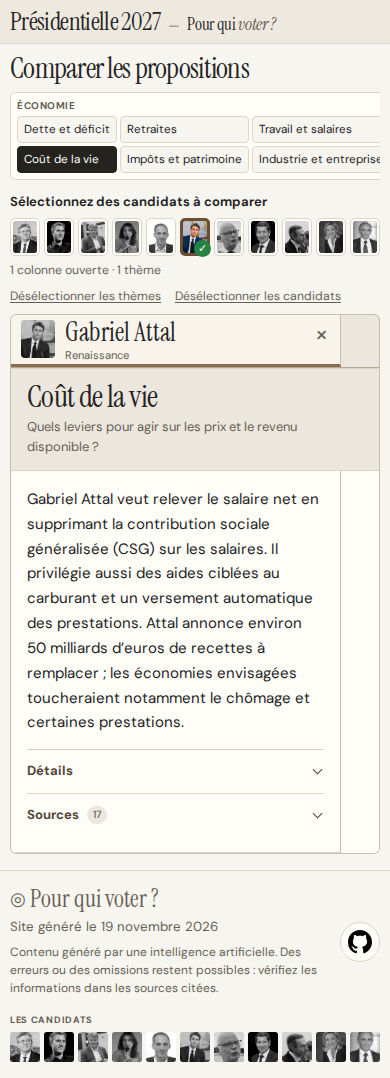
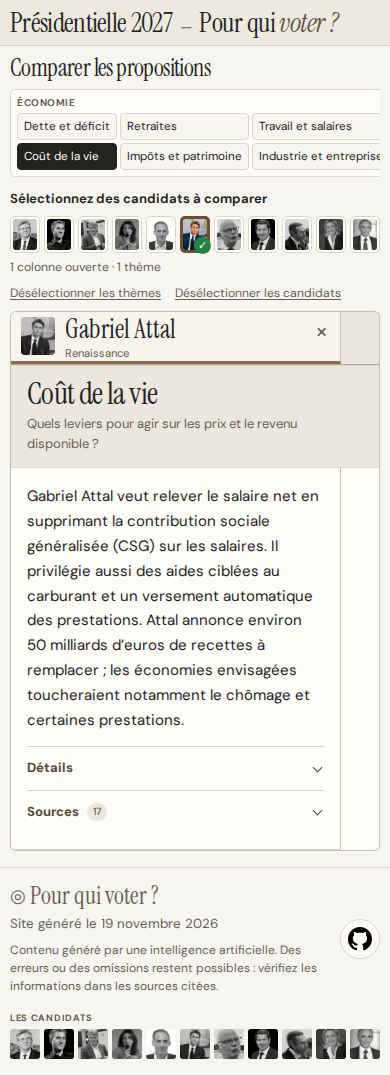
Équilibrer le titre principal et réduire le titre du comparateur

diff --git a/web/assets/style.css b/web/assets/style.css
@@ -23,9 +23,9 @@ p,h1,h2,h3,h4,h5{margin:0}
 .back-link{font-size:.85rem;font-weight:650}
 .hero{background:var(--hero);border-bottom:1px solid var(--line)}
 .hero-layout{display:flex;align-items:center;padding-block:8px}
-.hero .election-title{display:flex;align-items:baseline;gap:0 14px;font-size:clamp(26px,3.3vw,48px);line-height:1.08;letter-spacing:-.025em}
+.hero .election-title{display:flex;align-items:baseline;gap:0 14px;font-size:clamp(26px,3vw,42px);line-height:1.08;letter-spacing:-.025em}
 .election-year,.site-title{white-space:nowrap}
-.site-title{font-size:.68em;letter-spacing:-.02em}
+.site-title{font-size:1em;letter-spacing:-.02em}
 .title-divider{font-family:var(--sans);font-size:.52em;color:var(--muted)}
 .edition-top,.evidence{font-size:.73rem;font-weight:700;letter-spacing:.075em;text-transform:uppercase}
 h1,h2,.theme-heading h3{font-family:var(--serif);font-weight:400;line-height:.98}
@@ -42,7 +42,7 @@ h1 em{font-weight:400;color:#63574a}
 .wide{width:calc(100% - 32px);margin-inline:auto}
 .compare-section{--open-track:clamp(290px,30vw,440px);padding-block:14px 18px;flex:1;display:flex;flex-direction:column}
 .section-head{display:flex;align-items:baseline;flex-wrap:wrap;gap:3px 16px;margin-bottom:9px}
-.section-head h2{font-size:clamp(29px,3vw,43px);letter-spacing:-.025em}
+.section-head h2{font-size:clamp(24px,2.5vw,36px);letter-spacing:-.025em}
 .section-head p{font-size:.79rem;color:var(--muted)}
 .theme-picker{display:grid;grid-template-columns:minmax(0,1.25fr) minmax(0,1.13fr) minmax(0,1.13fr) minmax(0,1.46fr) minmax(0,.74fr) minmax(0,.71fr);gap:6px}
 .theme-stack{min-width:0;padding:5px 6px 6px;background:var(--card);border:1px solid var(--line);border-radius:5px}
@@ -160,7 +160,7 @@ footer{border-top:1px solid var(--line);color:var(--muted);font-size:.83rem}
   .nav,.foot{min-height:50px;gap:10px}
   .brand{font-size:24px;gap:4px}
   .brand-mark{font-size:18px}
-  .hero .election-title{font-size:clamp(22px,6.5vw,30px);gap:0 8px}
+  .hero .election-title{font-size:clamp(22px,7vw,30px);gap:0 8px}
   .edition-top{font-size:.58rem}
   .section-head p{display:none}
   .theme-options button{padding-block:5px}
